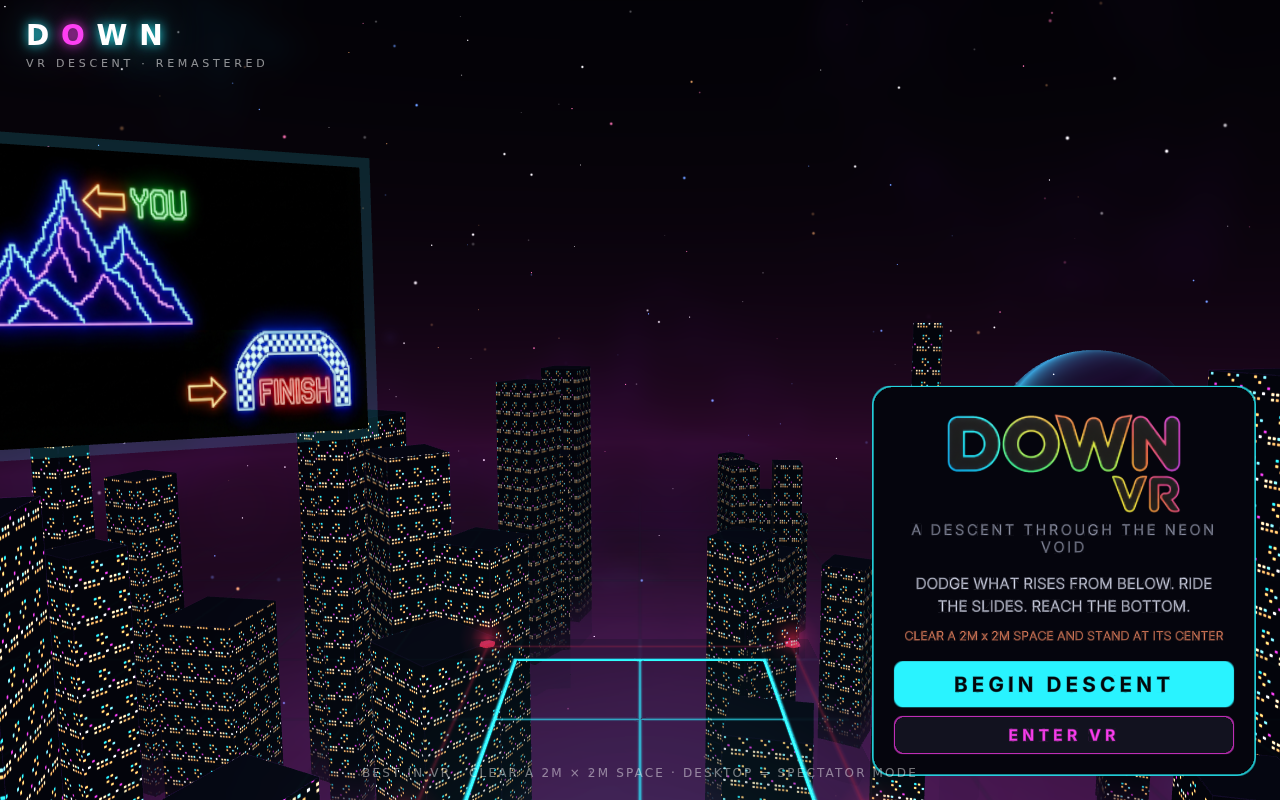
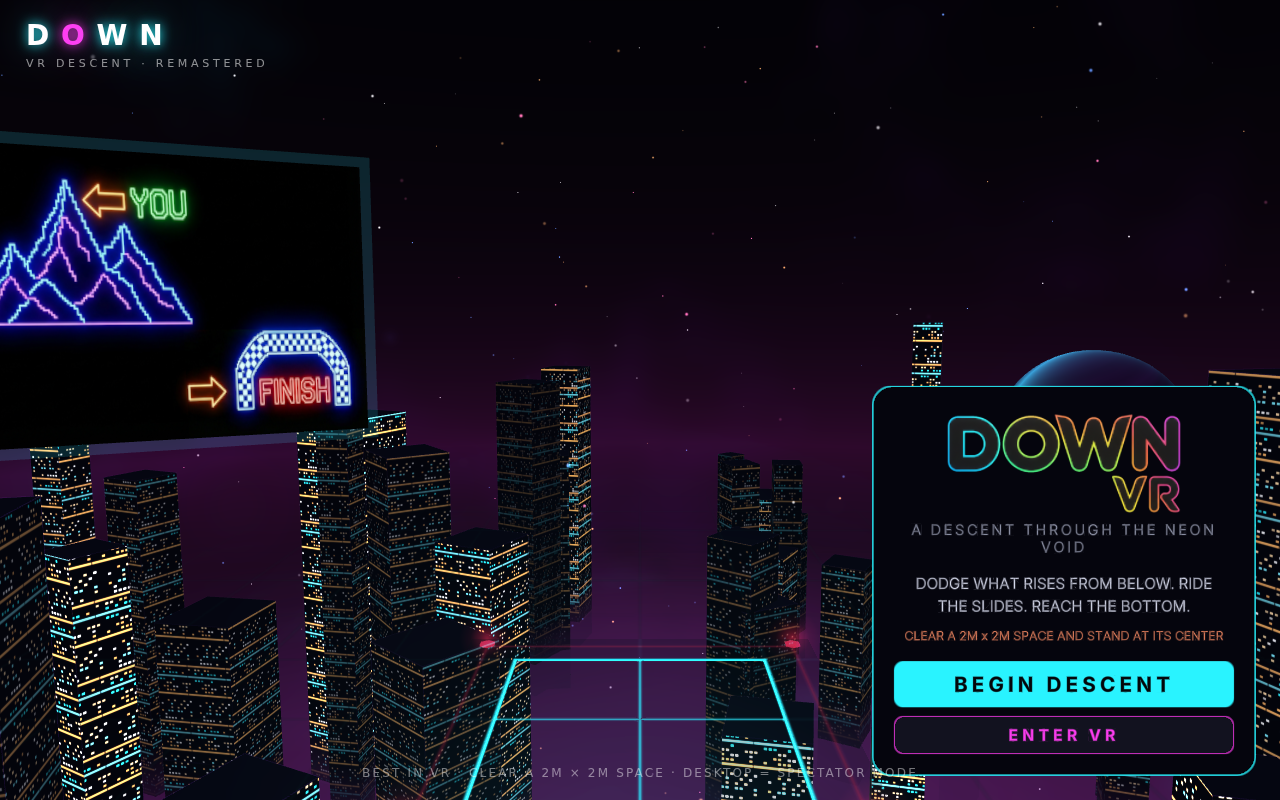
De-uniform the tower windows
The skyline read as one repeating wallpaper — every tower sampled the
same tile at the same scale and brightness. Now:

- Window atlas rebuilt at 512px, 12x16 cells, lit the way real skylines
  are: clustered runs of 1-4 shared-color windows, whole dark floors,
  occasional fully-lit strip floors, each floor leaning to one color
  temperature
- Per-instance hashes (from each tower's footprint) drive a unique atlas
  crop offset per tower and per face, per-tower window scale (28-42m
  tiles, so floor heights differ building to building), and per-tower
  brightness — some towers blaze, some sit nearly dark

Claude-Session: https://claude.ai/code/session_0152Ld1AehrLiG8ey7gx6CCH

diff --git a/src/env/fx.ts b/src/env/fx.ts
@@ -22,32 +22,34 @@ function seededRandom(seed: number): () => number {
 /**
  * Lit-window texture for the tower faces, baked once to a canvas so it
  * mipmaps cleanly — procedural per-pixel grids shimmer badly in VR at
- * distance; a baked texture stays rock-solid. One tile covers 16m x 24m
- * of facade: 6 window columns, 8 floors, with real structure — dark
- * floors, dense floors, warm/cool/neon color mix.
+ * distance; a baked texture stays rock-solid. 12 columns x 16 floors per
+ * tile, built the way real skylines light up: windows in clustered runs
+ * (offices share lights), whole floors dark, occasional fully-lit strip
+ * floors, and each floor holding a dominant color temperature. Towers
+ * then sample this at per-instance offsets/scales so no two look alike.
  */
 export function makeWindowTexture(): CanvasTexture {
-  const w = 256;
-  const h = 256;
+  const w = 512;
+  const h = 512;
   const canvas = document.createElement('canvas');
   canvas.width = w;
   canvas.height = h;
   const ctx = canvas.getContext('2d')!;
   ctx.clearRect(0, 0, w, h);
 
-  const cols = 6;
-  const rows = 8;
+  const cols = 12;
+  const rows = 16;
   const cw = w / cols;
   const ch = h / rows;
   const rnd = seededRandom(1979);
   // Weighted palette: mostly warm sodium/amber, cyan accents, rare magenta.
   const palette: Array<[string, number]> = [
-    ['#ffb45e', 0.3],
+    ['#ffb45e', 0.32],
     ['#ffd9a0', 0.24],
-    ['#7defff', 0.17],
-    ['#29f3ff', 0.12],
-    ['#ff3df2', 0.07],
-    ['#ffffff', 0.1]
+    ['#7defff', 0.16],
+    ['#29f3ff', 0.11],
+    ['#ff3df2', 0.06],
+    ['#ffffff', 0.11]
   ];
   const pick = (): string => {
     let p = rnd();
@@ -58,18 +60,48 @@ export function makeWindowTexture(): CanvasTexture {
     return palette[0][0];
   };
 
+  const drawPane = (c: number, r: number, color: string, alpha: number): void => {
+    ctx.globalAlpha = alpha;
+    ctx.fillStyle = color;
+    ctx.shadowColor = color;
+    ctx.shadowBlur = 4;
+    ctx.fillRect(c * cw + cw * 0.18, r * ch + ch * 0.24, cw * 0.64, ch * 0.46);
+  };
+
   for (let r = 0; r < rows; r++) {
-    // Whole floors go dark; others are busy — that's what makes it read
-    // as a lived-in building instead of static.
-    const density = rnd() < 0.22 ? 0.08 : 0.3 + rnd() * 0.55;
-    for (let c = 0; c < cols; c++) {
-      if (rnd() > density) continue;
-      const color = pick();
-      ctx.globalAlpha = 0.5 + rnd() * 0.5;
-      ctx.fillStyle = color;
-      ctx.shadowColor = color;
-      ctx.shadowBlur = 5;
-      ctx.fillRect(c * cw + cw * 0.2, r * ch + ch * 0.24, cw * 0.6, ch * 0.46);
+    const mode = rnd();
+    // Each floor leans toward one color temperature — offices share lighting.
+    const floorColor = pick();
+
+    if (mode < 0.16) {
+      // Dark floor: at most a lone late-night window.
+      if (rnd() < 0.3) drawPane(Math.floor(rnd() * cols), r, pick(), 0.5);
+      continue;
+    }
+    if (mode < 0.27) {
+      // Fully lit strip floor — one continuous band of light.
+      ctx.globalAlpha = 0.55 + rnd() * 0.3;
+      ctx.fillStyle = floorColor;
+      ctx.shadowColor = floorColor;
+      ctx.shadowBlur = 6;
+      ctx.fillRect(cw * 0.1, r * ch + ch * 0.26, w - cw * 0.2, ch * 0.42);
+      continue;
+    }
+
+    // Normal floor: windows light in clustered runs of 1-4.
+    const density = 0.18 + rnd() * 0.42;
+    let c = 0;
+    while (c < cols) {
+      if (rnd() < density) {
+        const run = 1 + Math.floor(rnd() * rnd() * 4);
+        const runColor = rnd() < 0.75 ? floorColor : pick();
+        for (let k = 0; k < run && c + k < cols; k++) {
+          drawPane(c + k, r, runColor, 0.45 + rnd() * 0.55);
+        }
+        c += run + 1;
+      } else {
+        c++;
+      }
     }
   }
   ctx.globalAlpha = 1;

diff --git a/src/env/structures.ts b/src/env/structures.ts
@@ -158,6 +158,7 @@ function makeWindowMaterial(uniforms: { uTime: { value: number } }): ShaderMater
       varying vec3 vNormalL;
       varying vec3 vScale;
       varying vec3 vWorld;
+      varying vec3 vRand;
       void main() {
         vLocal = position;
         vNormalL = normal;
@@ -165,6 +166,14 @@ function makeWindowMaterial(uniforms: { uTime: { value: number } }): ShaderMater
           length(instanceMatrix[0].xyz),
           length(instanceMatrix[1].xyz),
           length(instanceMatrix[2].xyz)
+        );
+        // Three stable per-instance randoms from the tower's footprint —
+        // they de-uniform the windows: offset, scale, and brightness.
+        vec2 fp = instanceMatrix[3].xz;
+        vRand = vec3(
+          fract(sin(dot(fp, vec2(12.9898, 78.233))) * 43758.5453),
+          fract(sin(dot(fp, vec2(39.3468, 11.135))) * 24634.6345),
+          fract(sin(dot(fp, vec2(73.156, 52.235))) * 12345.6789)
         );
         vec4 world = modelMatrix * instanceMatrix * vec4(position, 1.0);
         vWorld = world.xyz;
@@ -176,6 +185,7 @@ function makeWindowMaterial(uniforms: { uTime: { value: number } }): ShaderMater
       varying vec3 vNormalL;
       varying vec3 vScale;
       varying vec3 vWorld;
+      varying vec3 vRand;
       uniform float uTime;
       uniform sampler2D uWindows;
       uniform float uMistTop;
@@ -189,16 +199,27 @@ function makeWindowMaterial(uniforms: { uTime: { value: number } }): ShaderMater
         vec3 col = body;
 
         if (an.y < 0.5) {
-          // Facade coordinates in real-world metres -> one texture tile
-          // per 16m x 24m of wall.
+          // Facade coordinates in real-world metres.
           vec2 wm = (an.x > an.z)
             ? vec2(vLocal.z * vScale.z, (vLocal.y + 0.5) * vScale.y)
             : vec2(vLocal.x * vScale.x, (vLocal.y + 0.5) * vScale.y);
-          vec4 win = texture2D(uWindows, wm / vec2(16.0, 24.0));
+
+          // Per-tower window scale (floor heights differ building to
+          // building), per-tower + per-face crop offset so no two towers
+          // show the same patch of the atlas.
+          float tileW = mix(28.0, 42.0, vRand.y);
+          vec2 uv = wm / vec2(tileW, tileW * 1.4);
+          uv += vec2(vRand.x * 5.13, vRand.z * 3.71);
+          if (an.x > an.z) uv += vec2(0.37, 0.19);
+          vec4 win = texture2D(uWindows, uv);
 
           // Slow "city breathing" — low-frequency only, so nothing shimmers.
           float breathe = 0.78 + 0.22 * vnoise(vec3(vWorld.xz * 0.012, uTime * 0.06));
-          col += win.rgb * win.a * 1.6 * breathe;
+
+          // Some towers blaze, some sit nearly dark.
+          float towerLit = 0.25 + 1.3 * pow(vRand.z, 1.7);
+
+          col += win.rgb * win.a * 1.6 * breathe * towerLit;
         } else {
           col = body * 1.5; // roof caps read slightly lighter
         }